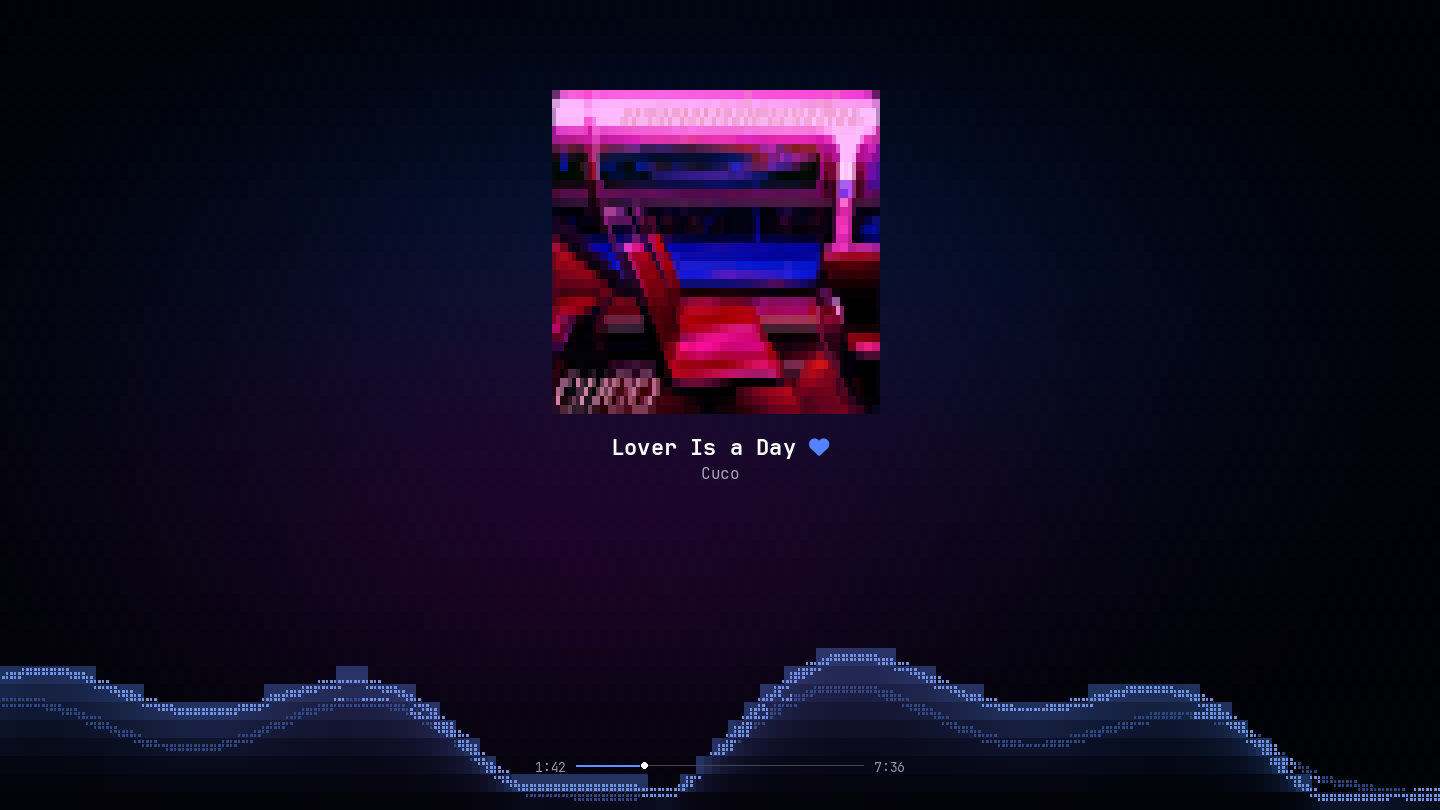
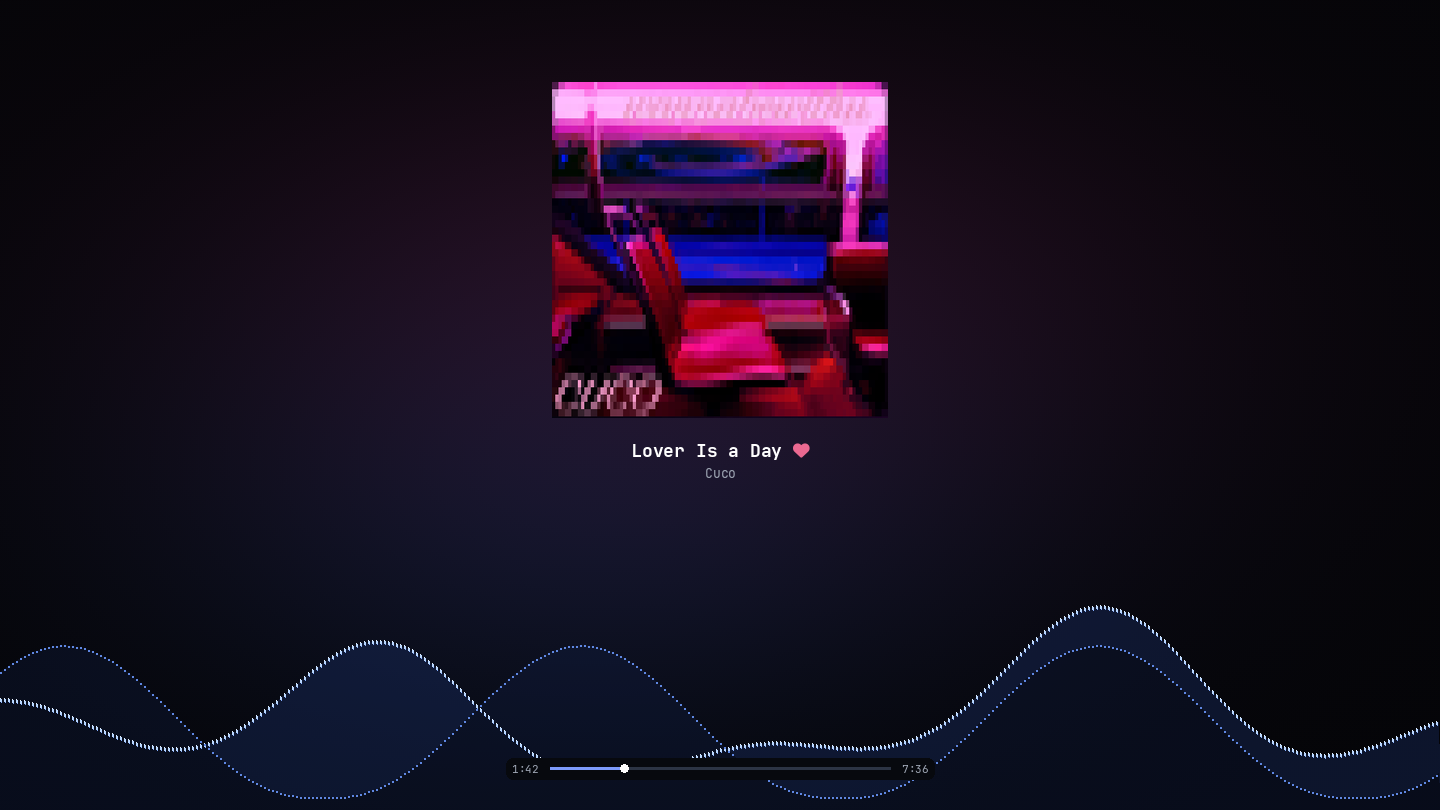
Update README preview screenshots with size 12 proportions and dancing rat easter egg

Changed region(s): [[0.3438, 0.0926, 0.625, 0.5864], [0.0, 0.7407, 1.0, 0.9877], [0.1562, 0.9259, 0.2812, 0.9877]]

diff --git a/scripts/render_previews.py b/scripts/render_previews.py
@@ -1,0 +1,249 @@
+import math
+import numpy as np
+from PIL import Image, ImageDraw, ImageFont
+
+W, H = 1440, 810
+bold_font_path = "/usr/share/fonts/TTF/JetBrainsMonoNerdFont-Bold.ttf"
+reg_font_path = "/usr/share/fonts/TTF/JetBrainsMonoNerdFont-Regular.ttf"
+
+font_title = ImageFont.truetype(bold_font_path, 18)
+font_artist = ImageFont.truetype(reg_font_path, 13)
+font_ts = ImageFont.truetype(reg_font_path, 11)
+
+BAYER_4X4 = [
+    [-0.46875, 0.03125, -0.34375, 0.15625],
+    [0.28125, -0.21875, 0.40625, -0.09375],
+    [-0.28125, 0.21875, -0.40625, 0.09375],
+    [0.46875, -0.03125, 0.34375, -0.15625],
+]
+
+def create_ambient_background(split_t=0.0):
+    bg = np.zeros((H, W, 3), dtype=np.float32)
+    p1_x = 0.46 + 0.22 * split_t
+    p1_y = 0.33
+    p2_x = 0.38
+    p2_y = 0.68
+
+    c_base = np.array([5.0, 5.0, 8.0])
+    c_glow1 = np.array([42.0, 16.0, 36.0])
+    c_glow2 = np.array([12.0, 24.0, 48.0])
+
+    y_coords, x_coords = np.mgrid[0:H, 0:W]
+    u = x_coords / float(W - 1)
+    v = y_coords / float(H - 1)
+
+    dx1 = (u - p1_x) * 1.35
+    dy1 = (v - p1_y) * 1.55
+    w1 = np.exp(-3.2 * (dx1 * dx1 + dy1 * dy1)) * 0.85
+
+    dx2 = (u - p2_x) * 1.45
+    dy2 = (v - p2_y) * 1.65
+    w2 = np.exp(-3.6 * (dx2 * dx2 + dy2 * dy2)) * 0.72
+
+    edge_dx = (u - 0.5) * 2.0
+    edge_dy = (v - 0.5) * 2.0
+    edge_dist = np.minimum(edge_dx * edge_dx + edge_dy * edge_dy, 1.4)
+    vignette = np.clip(1.0 - edge_dist * 0.38, 0.35, 1.0)
+
+    for i in range(3):
+        comp = c_base[i] + (c_glow1[i] - c_base[i]) * (w1 * vignette) + (c_glow2[i] - c_base[i]) * (w2 * vignette)
+        bg[:, :, i] = comp
+
+    dither = np.tile(BAYER_4X4, (H // 4 + 1, W // 4 + 1))[:H, :W] * 1.4
+    bg = np.clip(bg + dither[:, :, None], 0, 255).astype(np.uint8)
+    return Image.fromarray(bg, "RGB").convert("RGBA")
+
+def draw_soundwave(im):
+    draw = ImageDraw.Draw(im)
+    wave_base_y = H - 1
+    max_h = 195.0
+
+    # 1. Semi-transparent gradient fill below the primary curve
+    fill_overlay = Image.new("RGBA", (W, H), (0, 0, 0, 0))
+    fill_draw = ImageDraw.Draw(fill_overlay)
+
+    xs = list(range(0, W, 2))
+    points_h1 = []
+    points_h2 = []
+
+    for x in xs:
+        u = x / float(W)
+        m1 = math.sin(u * 13.5 - 2.1) * 0.44 + math.sin(u * 25.0 + 1.2) * 0.32 + math.cos(u * 7.5) * 0.24
+        val1 = (m1 * 0.5 + 0.5) ** 1.35
+        h1 = val1 * max_h + 16.0
+        y1 = wave_base_y - int(h1)
+        points_h1.append((x, y1))
+
+        m2 = math.sin(u * 17.5 + 0.8) * 0.5 + 0.5
+        val2 = (m2 ** 1.25)
+        h2 = val2 * max_h * 0.78 + 12.0
+        y2 = wave_base_y - int(h2)
+        points_h2.append((x, y2))
+
+    # Fill polygon under curve 1
+    poly = [(0, wave_base_y)] + points_h1 + [(W, wave_base_y)]
+    fill_draw.polygon(poly, fill=(28, 52, 115, 85))
+
+    # Secondary softer fill under curve 2
+    poly2 = [(0, wave_base_y)] + points_h2 + [(W, wave_base_y)]
+    fill_draw.polygon(poly2, fill=(18, 36, 85, 60))
+
+    # Vertical gradient mask over fill
+    im.paste(Image.alpha_composite(Image.new("RGBA", (W, H), (0, 0, 0, 0)), fill_overlay), (0, 0), fill_overlay)
+
+    # 2. Draw crisp double-braille crest dots
+    for (x, y1), (_, y2) in zip(points_h1, points_h2):
+        if x % 4 != 0:
+            continue
+        # Primary crest
+        draw.rectangle([(x, y1 - 1), (x + 1, y1 + 1)], fill=(185, 215, 255, 245))
+        draw.point((x, y1 - 2), fill=(230, 242, 255, 255))
+        draw.point((x + 1, y1 + 2), fill=(135, 175, 255, 200))
+
+        # Secondary crest
+        draw.rectangle([(x, y2), (x + 1, y2 + 1)], fill=(95, 135, 225, 180))
+
+def draw_time_bar(draw, center_x, bar_y, bar_w=340):
+    bar_x = center_x - bar_w // 2
+    left_ts = "1:42"
+    right_ts = "7:36"
+
+    # Dark backdrop pill so text and bar never clash with wave lines behind them
+    bbox_l = draw.textbbox((0, 0), left_ts, font=font_ts)
+    lw = bbox_l[2] - bbox_l[0]
+    pill_x0 = bar_x - lw - 18
+    pill_x1 = bar_x + bar_w + lw + 18
+    draw.rounded_rectangle([(pill_x0, bar_y - 10), (pill_x1, bar_y + 11)], radius=7, fill=(7, 9, 14, 225))
+
+    # Base track and active progress
+    draw.line([(bar_x, bar_y), (bar_x + bar_w, bar_y)], fill=(44, 52, 68, 255), width=3)
+    progress_w = int(bar_w * 0.22)
+    draw.line([(bar_x, bar_y), (bar_x + progress_w, bar_y)], fill=(125, 155, 250, 255), width=3)
+    draw.ellipse([(bar_x + progress_w - 4, bar_y - 4), (bar_x + progress_w + 4, bar_y + 4)], fill=(255, 255, 255, 255))
+
+    draw.text((bar_x - lw - 12, bar_y - 7), left_ts, font=font_ts, fill=(160, 168, 182, 255))
+    draw.text((bar_x + bar_w + 12, bar_y - 7), right_ts, font=font_ts, fill=(160, 168, 182, 255))
+
+# 1. Lyrics View
+def render_lyrics_view():
+    im = create_ambient_background(split_t=1.0)
+    draw = ImageDraw.Draw(im)
+
+    cover_src = Image.open("/home/mario/.gemini/antigravity-cli/brain/d424bcd1-c5ac-4130-9797-5d931c58523d/scratch/cuco_cover.png").convert("RGBA")
+    cw, ch = 396, 396
+    cx = 112
+    cy = 138
+    cover_resized = cover_src.resize((cw, ch), Image.Resampling.LANCZOS)
+    im.paste(cover_resized, (cx, cy), cover_resized)
+
+    center_x = cx + cw // 2
+    title_text = "Lover Is a Day "
+    heart_text = "\uf004"
+    artist_text = "Cuco"
+
+    bbox_t = draw.textbbox((0, 0), title_text, font=font_title)
+    bbox_h = draw.textbbox((0, 0), heart_text, font=font_title)
+    tw = bbox_t[2] - bbox_t[0]
+    hw = bbox_h[2] - bbox_h[0]
+    total_w = tw + hw
+
+    tx = center_x - total_w // 2
+    ty = cy + ch + 22
+    draw.text((tx, ty), title_text, font=font_title, fill=(255, 255, 255, 255))
+    draw.text((tx + tw, ty), heart_text, font=font_title, fill=(235, 105, 145, 255))
+
+    bbox_a = draw.textbbox((0, 0), artist_text, font=font_artist)
+    aw = bbox_a[2] - bbox_a[0]
+    ax = center_x - aw // 2
+    ay = ty + 26
+    draw.text((ax, ay), artist_text, font=font_artist, fill=(160, 168, 182, 255))
+
+    # Time bar beneath artist
+    draw_time_bar(draw, center_x, ay + 32, bar_w=260)
+
+    # Lyrics column on right
+    lyrics_img = Image.open("assets/lyrics-view.png").convert("RGBA")
+    right_lyrics = lyrics_img.crop((640, 0, W, H))
+    im.paste(right_lyrics, (640, 0), right_lyrics)
+
+    im.convert("RGB").save("assets/lyrics-view.png", quality=95)
+    print("Saved assets/lyrics-view.png")
+
+# 2. Soundwave View
+def render_wave_view():
+    im = create_ambient_background(split_t=0.0)
+    draw = ImageDraw.Draw(im)
+
+    # Soundwave across lower section
+    draw_soundwave(im)
+
+    # Centered 1:1 square cover
+    cover_src = Image.open("/home/mario/.gemini/antigravity-cli/brain/d424bcd1-c5ac-4130-9797-5d931c58523d/scratch/cuco_cover.png").convert("RGBA")
+    cw, ch = 336, 336
+    cx = (W - cw) // 2
+    cy = 82
+    cover_resized = cover_src.resize((cw, ch), Image.Resampling.LANCZOS)
+    im.paste(cover_resized, (cx, cy), cover_resized)
+
+    center_x = W // 2
+    title_text = "Lover Is a Day "
+    heart_text = "\uf004"
+    artist_text = "Cuco"
+
+    bbox_t = draw.textbbox((0, 0), title_text, font=font_title)
+    bbox_h = draw.textbbox((0, 0), heart_text, font=font_title)
+    tw = bbox_t[2] - bbox_t[0]
+    hw = bbox_h[2] - bbox_h[0]
+    total_w = tw + hw
+
+    tx = center_x - total_w // 2
+    ty = cy + ch + 20
+    draw.text((tx, ty), title_text, font=font_title, fill=(255, 255, 255, 255))
+    draw.text((tx + tw, ty), heart_text, font=font_title, fill=(235, 105, 145, 255))
+
+    bbox_a = draw.textbbox((0, 0), artist_text, font=font_artist)
+    aw = bbox_a[2] - bbox_a[0]
+    ax = center_x - aw // 2
+    ay = ty + 26
+    draw.text((ax, ay), artist_text, font=font_artist, fill=(160, 168, 182, 255))
+
+    # Time bar cleanly floating at bottom
+    draw_time_bar(draw, center_x, H - 42, bar_w=340)
+
+    im.convert("RGB").save("assets/wave-view.png", quality=95)
+    print("Saved assets/wave-view.png")
+
+# 3. Dancing Rat Easter Egg View
+def render_rat_view():
+    im = create_ambient_background(split_t=0.0)
+    draw = ImageDraw.Draw(im)
+
+    # Soundwave at bottom
+    draw_soundwave(im)
+
+    # Clean transparent rat frame directly from sprite sheet
+    sheet = Image.open("assets/rat_spritesheet.png").convert("RGBA")
+    frame10 = sheet.crop((0, 10 * 120, 80, 11 * 120))
+
+    rw, rh = 340, 510
+    rat_resized = frame10.resize((rw, rh), Image.Resampling.LANCZOS)
+    rx = (W - rw) // 2
+    ry = (H - rh) // 2 - 25
+
+    im.paste(rat_resized, (rx, ry), rat_resized)
+
+    # Top indicator
+    label = "kymat · easter egg active ('r' to toggle)"
+    bbox = draw.textbbox((0, 0), label, font=font_artist)
+    lw = bbox[2] - bbox[0]
+    draw.text(((W - lw) // 2, 28), label, font=font_artist, fill=(235, 105, 145, 240))
+
+    # Time bar at bottom
+    draw_time_bar(draw, W // 2, H - 42, bar_w=340)
+
+    im.convert("RGB").save("assets/easter-egg-view.png", quality=95)
+    print("Saved assets/easter-egg-view.png")
+
+render_lyrics_view()
+render_wave_view()
+render_rat_view()

diff --git a/README.md b/README.md
@@ -14,6 +14,9 @@ Kymat reacts in real time to whatever music is playing on your desktop — displ
 ### Soundwave View
 ![Kymat Soundwave View](assets/wave-view.png)
 
+### Dancing Rat Easter Egg (`r`)
+![Kymat Dancing Rat Easter Egg](assets/easter-egg-view.png)
+
 ---
 
 ## Highlights
